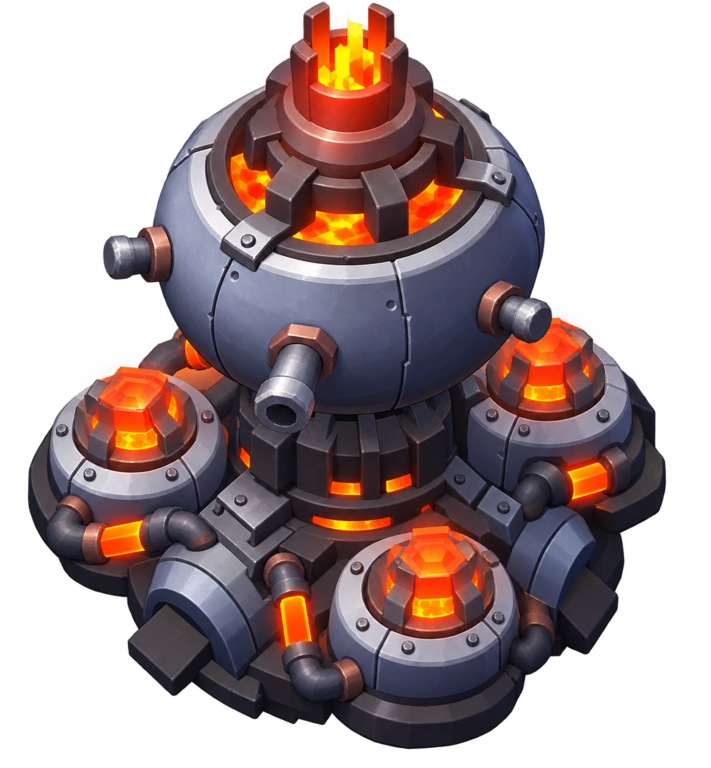
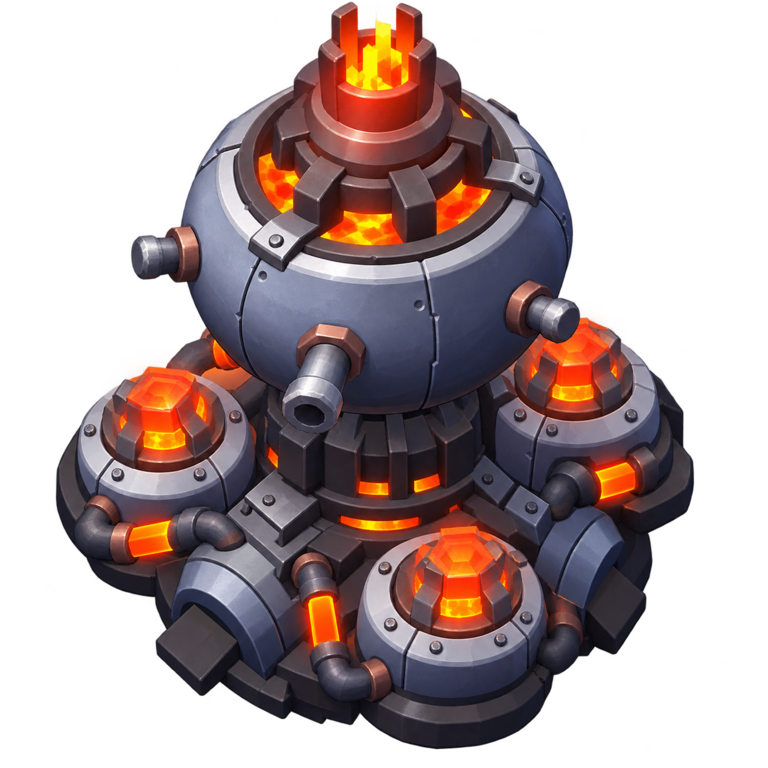
Normalize FC1 and FC2 furnace asset sizing

diff --git a/src/app.js b/src/app.js
@@ -66,7 +66,7 @@ const furnaceVisualAssets={
 function furnaceVisual(level){
   const asset=furnaceVisualAssets[level.id];
   return asset
-    ? `<img src="assets/visuals/furnaces/${asset}?v=20261009-furnace-assets-fc1-fc6-no-smoke-v2" alt="Chaudière ${level.id}" draggable="false">`
+    ? `<img src="assets/visuals/furnaces/${asset}?v=20261009-furnace-assets-fc1-fc6-normalized-v1" alt="Chaudière ${level.id}" draggable="false">`
     : '<span class="furnace-placeholder" aria-hidden="true"><span class="furnace-placeholder-stack"></span><span class="furnace-placeholder-door">🔥</span></span>';
 }
 function furnaceLevelParts(level){
